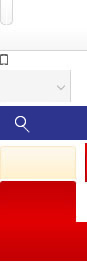
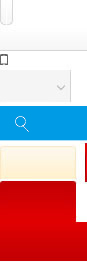
test

Changed region(s): [[0.0, 0.3969, 1.0, 0.5496]]

diff --git a/public/templates/default/index/index/index.html b/public/templates/default/index/index/index.html
@@ -113,7 +113,7 @@
 <style>
 
     .W1000 {
-        width: 960px;
+        width: 1000px;
         margin: 0 auto;
     }
 
@@ -145,7 +145,7 @@
     .mr_search {
         width: 500px;
         height: 32px;
-        border: 2px solid #2D348E;
+        border: 2px solid #009BE5;
     }
 
     .mr_search form {
@@ -532,7 +532,7 @@
                  style="z-index: 20; position: absolute; top: 40px; left: 20px; display: none; min-height:300px; position:relative;">
                 <div class="qhcity_close" onclick="javascript:ChangeCity
 ();">
-                    <img src="./深圳厂房出租_深圳厂房招租_深圳厂房出租网-【886厂房网】_files/close.gif" alt="关闭" title="关闭"/>
+                    <img src="./深圳厂房出租_深圳厂房招租_深圳厂房出租网-_files/close.gif" alt="关闭" title="关闭"/>
                 </div>
                 <div class="qhcity_hot">
                     热门城市：
@@ -802,12 +802,10 @@
                                 <li class=""><a href="/index/search/workshop?city={$cityInfo[0]['id']}&category=1"
                                                 class="menubox"><span>园区招商</span></a></li>
                                 <li class=""><a href="/index/search/workshop?city={$cityInfo[0]['id']}&category=1"
-                                                class="menubox"><span>民宅商铺</span></a></li>
+                                                class="menubox"><span>私宅商铺</span></a></li>
                                 <li class=""><a href="/index/search/workshop?city={$cityInfo[0]['id']}&category=1"
-                                                class="menubox"><span>包租厂房</span></a></li>
-                                <li class=""><a href="/index/publish/customer" class="menubox"
-                                                target="_blank"><span>求租</span></a></li>
-                                <li class=""><a href="/index/publish/owner" class="menubox"><span>求购</span></a></li>
+                                                class="menubox"><span>求租求购合</span></a></li>
+                                
 
                             </ul>
                         </div>
